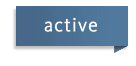
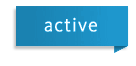
changes on server

diff --git a/static/css/style.css b/static/css/style.css
@@ -550,16 +550,48 @@ a.profile_btn:hover {
 }
 
 .photos_count { 
-	position: relative; top: -50px; left: 70px; display: block; width: 128px; font-size: 8pt; color: #999;
+	position: relative; top: 0px; left: 70px; display: block; width: 128px; height: 65px; font-size: 8pt; color: #999; background: #FFF;
+}
+
+.image_upload_container {
+	position: absolute; top: 1px; left: 66px; display: block; width: 130px; height: 65px; background: #FFF; z-index: 999; display: none;
+}
+
+.image_album {
+	background-size: 200px 200px; width: 200px; height: 200px; margin-bottom: 25px; border: 1px solid #E7E7E7;
+}
+
+.image_album:hover {
+	border-color: #DDD;
+	cursor: pointer;
 }
 
 #image_settings {
 	display: block;
 	height: 25px; width: 200px;
-	background: #333;
+	background: #555555; /* Old browsers */
+	background: -moz-linear-gradient(top, #555555 0%, #333333 100%); /* FF3.6+ */
+	background: -webkit-gradient(linear, left top, left bottom, color-stop(0%,#555555), color-stop(100%,#333333)); /* Chrome,Safari4+ */
+	background: -webkit-linear-gradient(top, #555555 0%,#333333 100%); /* Chrome10+,Safari5.1+ */
+	background: -o-linear-gradient(top, #555555 0%,#333333 100%); /* Opera 11.10+ */
+	background: -ms-linear-gradient(top, #555555 0%,#333333 100%); /* IE10+ */
+	background: linear-gradient(to bottom, #555555 0%,#333333 100%); /* W3C */
+	filter: progid:DXImageTransform.Microsoft.gradient( startColorstr='#555555', endColorstr='#333333',GradientType=0 ); /* IE6-9 */	
 	display: none;
 	-moz-box-shadow: 0px 4px 8px -4px #555;
 	box-shadow: 0px 4px 8px -4px #555;
+	position: relative; top: -5px;
+	-moz-border-radius: 5px 5px 0 0;
+	border-radius: 5px 5px 0 0;
+	filter:progid:DXImageTransform.Microsoft.Alpha(opacity=55);
+	-moz-opacity: 0.55;
+	opacity: 0.55;
+}
+
+#image_settings:hover {
+	filter:progid:DXImageTransform.Microsoft.Alpha(opacity=100);
+	-moz-opacity: 1;
+	opacity: 1;
 }
 
 #image_settings a:link, #image_settings a:active, #image_settings a:visited {
@@ -571,14 +603,14 @@ a.profile_btn:hover {
 }
 
 #image_settings a:hover {
-	background: #fafafa; /* Old browsers */
-	background: -moz-linear-gradient(top, #fafafa 0%, #eeeeee 100%); /* FF3.6+ */
-	background: -webkit-gradient(linear, left top, left bottom, color-stop(0%,#fafafa), color-stop(100%,#eeeeee)); /* Chrome,Safari4+ */
-	background: -webkit-linear-gradient(top, #fafafa 0%,#eeeeee 100%); /* Chrome10+,Safari5.1+ */
-	background: -o-linear-gradient(top, #fafafa 0%,#eeeeee 100%); /* Opera 11.10+ */
-	background: -ms-linear-gradient(top, #fafafa 0%,#eeeeee 100%); /* IE10+ */
-	background: linear-gradient(to bottom, #fafafa 0%,#eeeeee 100%); /* W3C */
-	filter: progid:DXImageTransform.Microsoft.gradient( startColorstr='#fafafa', endColorstr='#eeeeee',GradientType=0 ); /* IE6-9 */
+	background: #FFF; /* Old browsers */
+	background: -moz-linear-gradient(top, #FFF 0%, #eeeeee 100%); /* FF3.6+ */
+	background: -webkit-gradient(linear, left top, left bottom, color-stop(0%,#FFF), color-stop(100%,#eeeeee)); /* Chrome,Safari4+ */
+	background: -webkit-linear-gradient(top, #FFF 0%,#eeeeee 100%); /* Chrome10+,Safari5.1+ */
+	background: -o-linear-gradient(top, #FFF 0%,#eeeeee 100%); /* Opera 11.10+ */
+	background: -ms-linear-gradient(top, #FFF 0%,#eeeeee 100%); /* IE10+ */
+	background: linear-gradient(to bottom, #FFF 0%,#eeeeee 100%); /* W3C */
+	filter: progid:DXImageTransform.Microsoft.gradient( startColorstr='#FFF', endColorstr='#eeeeee',GradientType=0 ); /* IE6-9 */
 	color: #333;
 	text-decoration: none;
 }
@@ -1194,7 +1226,7 @@ a.nav_notifications:hover {
 .auto_subtext { 
 	font-size: 8pt;
 	line-height: 8pt;
-	color: #BBB;
+	color: #777;
 }
 
 .result_related, .result_post, .result_search {
@@ -1715,7 +1747,8 @@ a.nonprofit_btn:hover, .create_nonprofit a.nonprofit_btn:hover, #pages_nav_page 
 	background: -o-linear-gradient(top, #555555 0%,#333333 100%); /* Opera 11.10+ */
 	background: -ms-linear-gradient(top, #555555 0%,#333333 100%); /* IE10+ */
 	background: linear-gradient(to bottom, #555555 0%,#333333 100%); /* W3C */
-	filter: progid:DXImageTransform.Microsoft.gradient( startColorstr='#555555', endColorstr='#333333',GradientType=0 ); /* IE6-9 */	border-radius: 3px;
+	filter: progid:DXImageTransform.Microsoft.gradient( startColorstr='#555555', endColorstr='#333333',GradientType=0 ); /* IE6-9 */	
+	border-radius: 3px;
 	display: inline-block;
 	width: 100px;
 	text-align: center;
@@ -1794,6 +1827,13 @@ a.nonprofit_btn:hover, .create_nonprofit a.nonprofit_btn:hover, #pages_nav_page 
 
 .page_center {
 	width: 630px; min-height: 300px; padding: 10px; background: #FFF; position: relative; left: 250px; -moz-box-shadow: -6px 0 12px -6px #999; box-shadow: -6px 0 12px -6px #999;
+}
+
+a.admin_name:link, a.admin_name:active, a.admin_name:visited, a.admin_name:hover {
+	font-size: 8pt;
+	color: #DDD;
+	margin: 5px;
+	text-decoration: none;
 }
 
 .friend_container {

diff --git a/templates/pages/pages_loves.html b/templates/pages/pages_loves.html
@@ -2,8 +2,8 @@
 
         {% for page in row %}
 
-				<div style="display: block; padding: 12px 0 8px 0; border-top: 1px solid #EEE; width: 600px;">
-				<table><tr><td>
+				<div style="display: block; padding: 20px 0 0px 0; border-top: 1px solid #EEE; width: 600px;">
+				<table width="100%"><tr><td width="85">
                 <a href="{% url pages.views.page slug=page.username %}"> <img src="" alt="{{page.id}}" width="75" height="75"  /></a>
 					</td><td align="left" style="padding: 10px;">
                 {% if page.type == 'BS' %}
@@ -16,6 +16,44 @@
                     <span style="color: #999; padding: 3px;">{{ page.category }}</span>
                     {% endif %}
                 <div style="padding: 5px 0;"><span style="font-size: 8pt; color: #BBB;">Loves:</span> <span style="font-size: 12px; color: #E39; padding: 3px;">{{ page.loves }}</span></div>
+				</td><td align="right">
+					<a href="#" class="profile_btn" onClick="ShowContent('select_community'); return false;">+ Community</a><br />
+					<span style="font-size: 10pt; color: #555;"><span title="Remove" style="color: #AAA; font-size: 7pt; cursor: pointer;" onClick="ShowContent('edit'); return false;">Edit</span> <span style="color: #909e4a; font-size: 8pt;">confirmed</span> Intern<br />
+					Jun 2012 to Present</span>
+				</td></tr><tr><td colspan="3"><div id="select_community" style="display: none;">
+					<a href="#" class="profile_btn" style="margin: 7px;" onClick="ShowContent('select_era'); HideContent('select_community'); return false;">+ Volunteer</a> 
+					<a href="#" class="profile_btn" style="margin: 7px;" onClick="ShowContent('select_era'); HideContent('select_community'); return false;">+ Intern</a> 
+					<a href="#" class="profile_btn" style="margin: 7px;" onClick="ShowContent('select_era'); HideContent('select_community'); return false;">+ Employee</a>
+					<a href="#" style="color: #AAA; font-size: 8pt;" onClick="HideContent('select_community'); return false;">Cancel</a></div>
+				</td></tr><tr><td colspan="3"><div id="select_era" style="display: none;">
+					<a href="#" style="color: #AAA;" onClick="ShowContent('select_community'); HideContent('select_era'); return false;">< Back</a>
+					<a href="#" class="profile_btn" style="margin: 7px;" onClick="ShowContent('past'); HideContent('select_era'); return false;">In The Past</a> 
+					<a href="#" class="profile_btn" style="margin: 7px;" onClick="ShowContent('present'); HideContent('select_era'); return false;">Currently</a>
+					<a href="#" style="color: #AAA; font-size: 8pt;" onClick="HideContent('select_era'); return false;">Cancel</a></div>
+				</td></tr><tr><td colspan="3"><div id="past" style="display: none;">
+					<a href="#" style="color: #AAA;" onClick="ShowContent('select_era'); HideContent('past'); return false;">< Back</a>
+					<span style="padding: 12px 7px; margin: 5px; background: #FAFAFA; border: 1px solid #CCC;">
+						<span style="margin: 5px;">From: <select><option>month</option><select> <select><option>year</option><select></span>
+						<span style="margin: 5px;">To: <select><option>month</option><select> <select><option>year</option><select></span>
+					</span>
+					<a href="#" class="profile_btn" style="margin: 7px; position: relative; top: 0px;" onClick="HideContent('past'); return false;">Save</a>
+					<a href="#" style="color: #AAA; font-size: 8pt;" onClick="HideContent('past'); return false;">Cancel</a></div>
+					<div style="height: 7px;"></div>
+				</td></tr><tr><td colspan="3"><div id="present" style="display: none;">
+					<a href="#" style="color: #AAA;" onClick="ShowContent('select_era'); HideContent('present'); return false;">< Back</a>
+					<span style="padding: 12px 7px; margin: 5px; background: #FAFAFA; border: 1px solid #CCC;">
+						<span style="margin: 5px;">From: <select><option>month</option><select> <select><option>year</option><select></span>
+						<span style="margin: 5px;">To: Present</span>
+					</span>
+					<a href="#" class="profile_btn" style="margin: 7px; position: relative; top: 0px;" onClick="HideContent('present'); return false;">Save</a>
+					<a href="#" style="color: #AAA; font-size: 8pt;" onClick="HideContent('present'); return false;">Cancel</a></div>
+					<div style="height: 7px;"></div>
+				</td></tr><tr><td colspan="3"><div id="edit" style="display: none;">
+						<a href="#" class="profile_btn" style="margin: 7px;" onClick="ShowContent('select_community'); HideContent('edit'); return false;">Edit</a> 
+						<a href="#" class="profile_btn" style="margin: 7px;" onClick="HideContent('edit'); return false;">Remove</a>
+					</span>
+					<a href="#" style="color: #AAA; font-size: 8pt;" onClick="HideContent('edit'); return false;">Cancel</a></div>
+					<div style="height: 7px;">
 				</td></tr></table>
 				</div>
 

diff --git a/templates/profile/image.html b/templates/profile/image.html
@@ -10,37 +10,37 @@
 {% block content_subtitle %}{% endblock %}
 
 {% block left_col %}
-<div style="position: relative; top: -1px; background: #FFF;">
 <div onclick="window.open('/{{ profile_user.photo|format_image:request.get_full_path }}');return false;" 
-	class="noPhoto" style="background-image: url('/{{ profile_user.photo|format_image:request.get_full_path }}'); background-size: 67px 67px; height: 67px; background-position: center left; -moz-box-shadow: 0 4px 8px -4px #777; box-shadow: 0 4px 8px -4px #777; border: 0px;">
+	class="noPhoto" style="background-image: url('/{{ profile_user.photo|format_image:request.get_full_path }}'); background-size: 66px 66px; height: 66px; background-position: center left; -moz-box-shadow: 0 4px 8px -4px #777; box-shadow: 0 4px 8px -4px #777; border: 0px; margin-bottom: 10px;" onMouseOver="ShowContent('show_upload'); return false;" onMouseOut="HideContent('show_upload'); return false;">
 		{% if request.user == profile_user %}
-        <div style="position: relative; top: 4px; left: 72px; display: block; width: 126px; background: #FFF; z-index: 997;" align="center">
-            <a id="upload_picture" class="upload" style="display:none;">Upload</a><br /><a href="{% url profile.views.reset_picture username=request.user.username %}" id="reset_picture" class="upload" style="display:none; color:#555;">Clear</a>
+        <div class="image_upload_container" align="center" id="show_upload">
+            <a id="upload_picture" class="upload" style="display:none;position:relative;top:4px;">Upload</a><br /><a href="{% url profile.views.reset_picture username=request.user.username %}" id="reset_picture" class="upload" style="display:none; color:#555;">Clear</a>
         </div>
         {% endif %}
- 
-</div>
-
         <div class="photos_count" align="center">
+			<div style="padding-top: 26px;">
 		{{ profile_user.all_images.count }} Photos
+			</div>
 		</div>
-
-<div style="position: relative;">
-<form action="." method="post" class="upload_form" enctype="multipart/form-data" style="display:none; top: -92px;">
-    {% csrf_token %}
-    {{ form.photo.errors }}
-    <p><label for="id_photo">Upload</label></p>
-    {{ form.photo }}
-    <p><input name="image" type="submit" class="blue_btn" value="Upload" /></p>
-</form>
-</div>
 </div>
 {% endblock %}
 
 {% block right_col %}
-	<div style="padding: 10px; position: relative; left: 40px; height: 45px;">
-
+	<div style="padding: 10px; height: 45px;">
+		<div style="position: relative; top: 18px; left: 25px; color: #DDD;">
+		Whose woods these are I think I know, his house is in the village though. <i>- Robert Frost</i>
+		</div>
 	</div>
+
+<div style="position: relative;">
+<form action="." method="post" class="upload_form" enctype="multipart/form-data" style="display:none; top: -65px; height: 28px; padding: 18px; width: 662px;">
+    {% csrf_token %}
+    {{ form.photo.errors }}
+    <label for="id_photo">Upload</label>
+    {{ form.photo }}
+    <input name="image" type="submit" class="blue_btn" value="Upload" />
+</form>
+</div>
 {% endblock %}
 
 {% block js %}
@@ -62,18 +62,21 @@
 		<tr id="images_row_{{ image_row.index }}">
 		{% for row in image_row.rows %}
 			<td width="25%" align="center">
-				<div style="background-image: url('/{{ row.image.image|format_image:request.get_full_path }}'); background-size: 200px 200px; width: 200px; height: 200px; margin-bottom: 25px;">
-				<div id="image_settings">
-					<a href="#" style="float: left;" title="Make Primary Photo">+</a>
-					<a href="#" style="float: right;" title="Delete Photo">x</a>
-				</div>
+				<div style="background-image: url('/{{ row.image.image|format_image:request.get_full_path }}');" class="image_album">
+				{% if request.user == profile_user %}
+					<div id="image_settings">
+						<a href="#" style="float: left;" title="Make Primary Photo">+</a>
+						<a href="#" style="float: right;" title="Delete Photo">x</a>
+					</div>
+				{% else %}
+				{% endif %}
 			</div></td>
 		{% endfor %}
 		</tr>
 	{% endfor %}
 		<tr>
 			<td colspan="4" align="center"><div class="view_more" style="display: none;">
-				<a href="#">View more</a>
+				<a href="#">View More</a>
 			</div></td>
 		</tr>
 	</table>

diff --git a/templates/pages/micro/comunnity.html b/templates/pages/micro/comunnity.html
@@ -1,1 +1,60 @@
-<span>Comunnity</span>
+{% load media %}
+<div class="float_left">
+	<div class="friend_container">
+		<div class="friend_title" style="color: #909e4a;">Nonprofit Friends</div> <div class="see_all">see all</div><br />
+			<div class="friend_icon"><img src="{% media_url 'images/noThumb.png' %}" width="30" height="30" /></div>
+			<div class="friend_icon"><img src="{% media_url 'images/noThumb.png' %}" width="30" height="30" /></div>
+			<div class="friend_icon"><img src="{% media_url 'images/noThumb.png' %}" width="30" height="30" /></div>
+			<div class="friend_icon"><img src="{% media_url 'images/noThumb.png' %}" width="30" height="30" /></div>
+		<br /><br />
+		<div class="friend_title" style="color: #3ea8d2;">Business Friends</div> <div class="see_all">see all</div><br />
+			<div class="friend_icon"><img src="{% media_url 'images/noThumb.png' %}" width="30" height="30" /></div>
+			<div class="friend_icon"><img src="{% media_url 'images/noThumb.png' %}" width="30" height="30" /></div>
+			<div class="friend_icon"><img src="{% media_url 'images/noThumb.png' %}" width="30" height="30" /></div>
+			<div class="friend_icon"><img src="{% media_url 'images/noThumb.png' %}" width="30" height="30" /></div>
+	</div>
+</div>
+
+<div class="page_center">
+    <div style="padding: 15px;">
+
+       			{% if page.type == 'BS' %}
+                    <span style="color:#3ea8d2; font-size: 16pt;">Loves</span> (page_loves) (public_loves) <br />
+                {% else %}   
+                    <span style="color:#909E4A; font-size: 16pt;">Loves</span> (page_loves) (public_loves)  <br />
+                {% endif %}
+				<div style="padding: 7px 2px; border: 1px solid #CCC; background: #FAFAFA; text-align: center; margin: 4px 0;">
+					<div class="friend_icon"><img src="{% media_url 'images/noThumb.png' %}" width="36" height="36" /></div>
+					<div class="friend_icon"><img src="{% media_url 'images/noThumb.png' %}" width="36" height="36" /></div>
+					<div class="friend_icon"><img src="{% media_url 'images/noThumb.png' %}" width="36" height="36" /></div>
+					<div class="friend_icon"><img src="{% media_url 'images/noThumb.png' %}" width="36" height="36" /></div>
+					<div class="friend_icon"><img src="{% media_url 'images/noThumb.png' %}" width="36" height="36" /></div>
+					<div class="friend_icon"><img src="{% media_url 'images/noThumb.png' %}" width="36" height="36" /></div>
+					<div class="friend_icon"><img src="{% media_url 'images/noThumb.png' %}" width="36" height="36" /></div>
+					<div class="friend_icon"><img src="{% media_url 'images/noThumb.png' %}" width="36" height="36" /></div>
+					<div class="friend_icon"><img src="{% media_url 'images/noThumb.png' %}" width="36" height="36" /></div>
+					<div class="friend_icon"><img src="{% media_url 'images/noThumb.png' %}" width="36" height="36" /></div><br /><br />
+					<a href="#"><div style="display: block; text-align: left; padding: 2px 18px;">See More</div></a>
+				</div>
+					<br /><br />
+
+
+       			{% if page.type == 'BS' %}
+                {% else %}   
+                    <span style="color:#909E4A; font-size: 16pt;">Volunteers</span> (page_volunteers) (public_volunteers) <br /><br />
+                {% endif %}
+
+       			{% if page.type == 'BS' %}
+                    <span style="color:#3ea8d2; font-size: 16pt;">Interns</span> (page_interns) (public_interns) <br /><br />
+                {% else %}   
+                    <span style="color:#909E4A; font-size: 16pt;">Interns</span> (page_interns) (public_interns)  <br /><br />
+                {% endif %}
+
+       			{% if page.type == 'BS' %}
+                    <span style="color:#3ea8d2; font-size: 16pt;">Employees</span> (page_employees) (public_employees)  <br /><br />
+                {% else %}   
+                    <span style="color:#909E4A; font-size: 16pt;">Employees</span> (page_employees) (public_employees)  <br /><br />
+                {% endif %}
+
+    </div>
+</div>

diff --git a/static/css/jquery-ui-1.8.23.custom.css b/static/css/jquery-ui-1.8.23.custom.css
@@ -66,14 +66,8 @@
 .ui-state-default, .ui-widget-content .ui-state-default, .ui-widget-header .ui-state-default { background: #FFF; font-weight: normal; color: #777; z-index: 99999; }
 .ui-state-default a, .ui-state-default a:link, .ui-state-default a:visited { color: #777; text-decoration: none; z-index: 99999;  }
 
-.ui-state-hover, .ui-widget-content .ui-state-hover, .ui-widget-header .ui-state-hover, .ui-state-focus, .ui-widget-content .ui-state-focus, .ui-widget-header .ui-state-focus { 	background: rgb(68,153,221); /* Old browsers */
-	background: -moz-linear-gradient(top, rgba(68,153,221,1) 0%, rgba(34,119,187,1) 100%); /* FF3.6+ */
-	background: -webkit-gradient(linear, left top, left bottom, color-stop(0%,rgba(68,153,221,1)), color-stop(100%,rgba(34,119,187,1))); /* Chrome,Safari4+ */
-	background: -webkit-linear-gradient(top, rgba(68,153,221,1) 0%,rgba(34,119,187,1) 100%); /* Chrome10+,Safari5.1+ */
-	background: -o-linear-gradient(top, rgba(68,153,221,1) 0%,rgba(34,119,187,1) 100%); /* Opera 11.10+ */
-	background: -ms-linear-gradient(top, rgba(68,153,221,1) 0%,rgba(34,119,187,1) 100%); /* IE10+ */
-	background: linear-gradient(to bottom, rgba(68,153,221,1) 0%,rgba(34,119,187,1) 100%); /* W3C */
-	filter: progid:DXImageTransform.Microsoft.gradient( startColorstr='#4499dd', endColorstr='#2277bb',GradientType=0 ); /* IE6-9 */
+.ui-state-hover, .ui-widget-content .ui-state-hover, .ui-widget-header .ui-state-hover, .ui-state-focus, .ui-widget-content .ui-state-focus, .ui-widget-header .ui-state-focus { 	
+	background: #2ab4ea;
 	font-weight: normal; color: #FFF;
 	border: 1px solid transparent;
 	z-index: 99999; 

diff --git a/templates/messages/messages.html b/templates/messages/messages.html
@@ -8,8 +8,8 @@
         <div class="right" style="color: #555;">{% block content_subtitle %}
             <!--I will use this link for both views, except .bottom class will be added, when postbox is at the top-->
             <a href="#" id="show_older" class="older_mess" style="margin: 0;">Show Older Messages</a>
-            <a href="#" id="revert_btn" class="profile_nav" style="margin: 0; position: relative; left: 2px;">Reverse</a>
-            <a href="{% url messaging.views.messages request.user.username %}" class="profile_nav" style="margin: 0; position: relative; left: 2px;">+ Compose</a>{% endblock %}</div>
+            <a href="#" id="revert_btn" class="profile_btn" style="margin: 0; position: relative; left: 2px;">Reverse</a>
+            <a href="{% url messaging.views.messages request.user.username %}" class="profile_btn" style="margin: 0; position: relative; left: 2px;">+ Compose</a>{% endblock %}</div>
     </div>
     <div style="clear: both;"></div>
 

diff --git a/templates/post/_pagepost.html b/templates/post/_pagepost.html
@@ -1,8 +1,9 @@
-<a href='{{ user.get_absolute_url }}'>{{ user.get_full_name }}</a> on page
+
                 {% if page.type == 'BS' %}
-                    <a href="{{ page.get_absolute_url }}" style="color:#3ea8d2;">{{ page.name }}</a> 
+                    <a href="{{ page.get_absolute_url }}" style="color:#3ea8d2; font-size: 14pt;">{{ page.name }}</a> 
                 {% else %}   
-                    <a href="{{ page.get_absolute_url }}" style="color:#909E4A;">{{ page.name }}</a> 
+                    <a href="{{ page.get_absolute_url }}" style="color:#909E4A; font-size: 14pt;">{{ page.name }}</a> 
                 {% endif %}
+<a href='{{ user.get_absolute_url }}' class='admin_name'>{{ user.get_full_name }}</a>
 <br />
 <div class='post_content'>{{ content }}</div>

diff --git a/templates/public/_login_box.html b/templates/public/_login_box.html
@@ -4,7 +4,7 @@
 
 	<table border="0" cellspacing="0" cellpadding="0" width="900">
 	  <tr>
-		<td></td>
+		<td align="left"><a href="{% url account.views.signup %}">Register</a></td>
 	    <td align="right" width="220"><label>{{ login_form.email.label }}</label> {{ login_form.email }}
 		</td>
 	    <td align="right" width="240"><label>{{ login_form.password.label }}</label> {{ login_form.password }}

diff --git a/templates/base.html b/templates/base.html
@@ -81,7 +81,7 @@ var timezone = jstz.determine();
 
 </SCRIPT>
   
-    Copyright &#169; Lionface Inc <SCRIPT LANGUAGE="JavaScript">
+    Copyright &#169; <a href="htpp://www.lionface.org" style="color: #777; text-decoration: none;">Lionface</a> Inc <SCRIPT LANGUAGE="JavaScript">
   <!--- Hide from old browsers
     document.write(y0);
   // end hiding --->

diff --git a/templates/pages/micro/updates.html b/templates/pages/micro/updates.html
@@ -40,7 +40,7 @@
 
         {% endif %}
 
-        <div id="page_feed">
+        <div id="page_feed" style="position: relative; left: -50px;">
         </div>
 
     </div>
